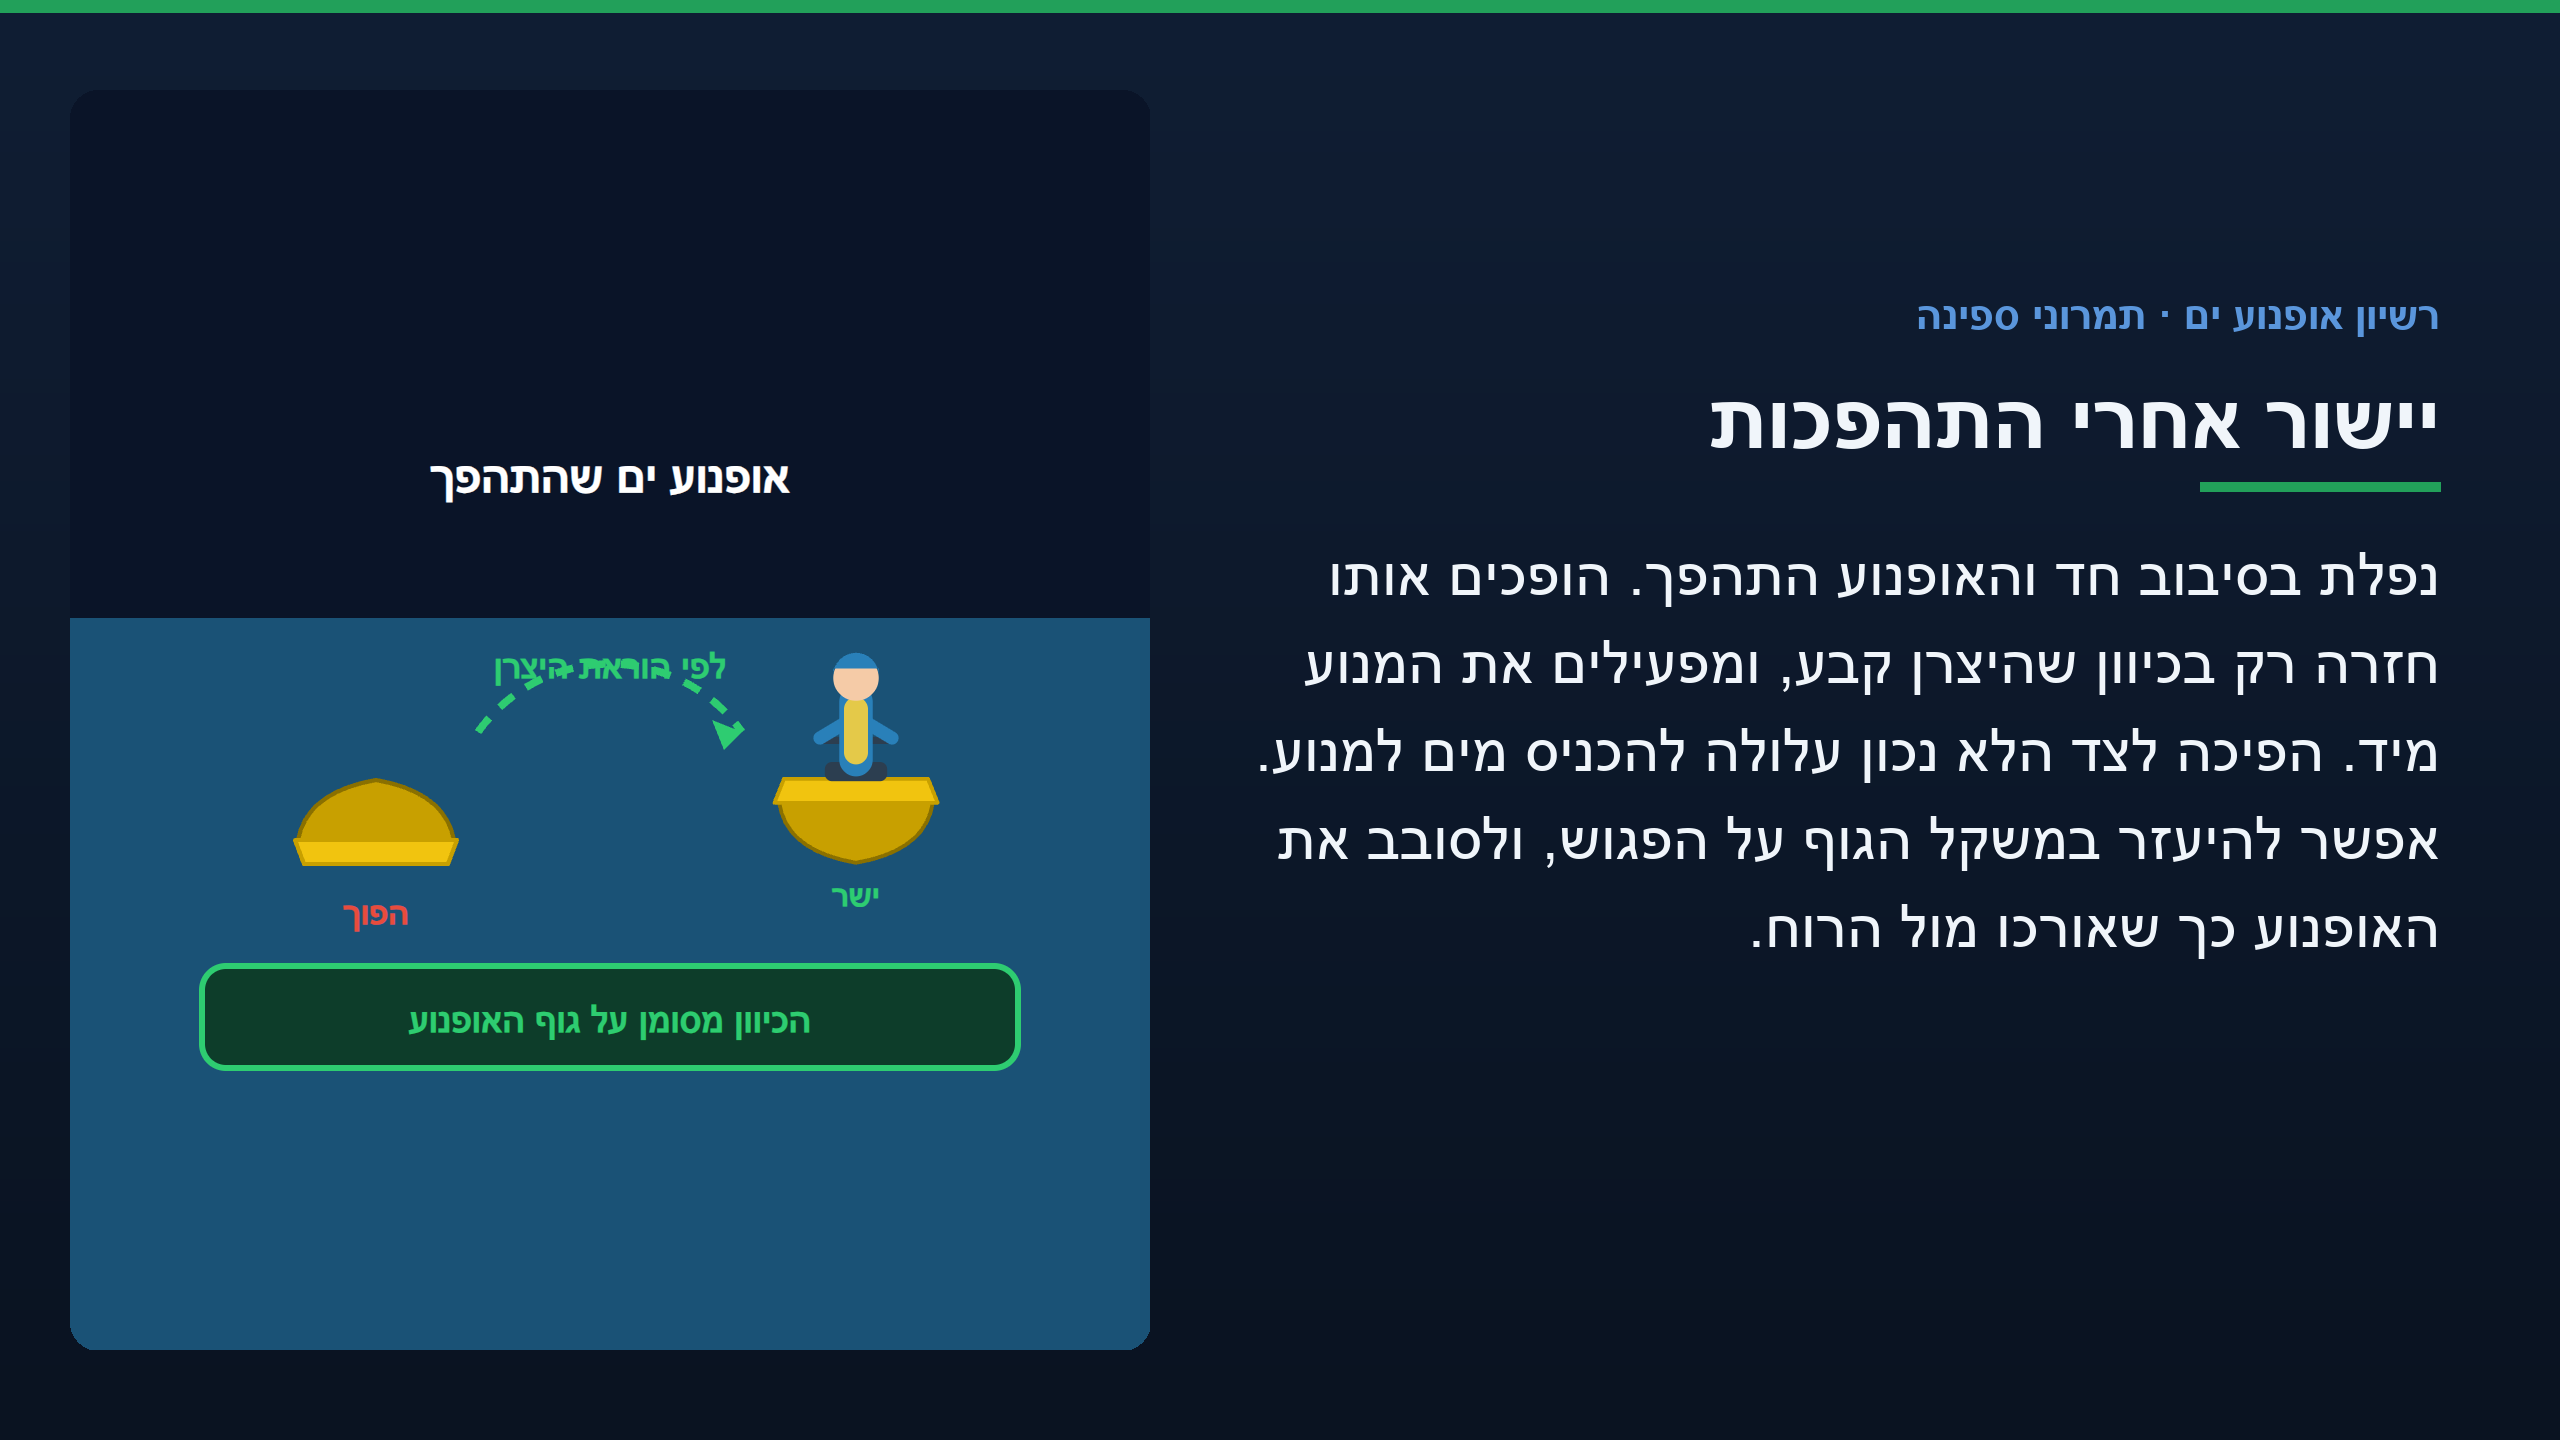
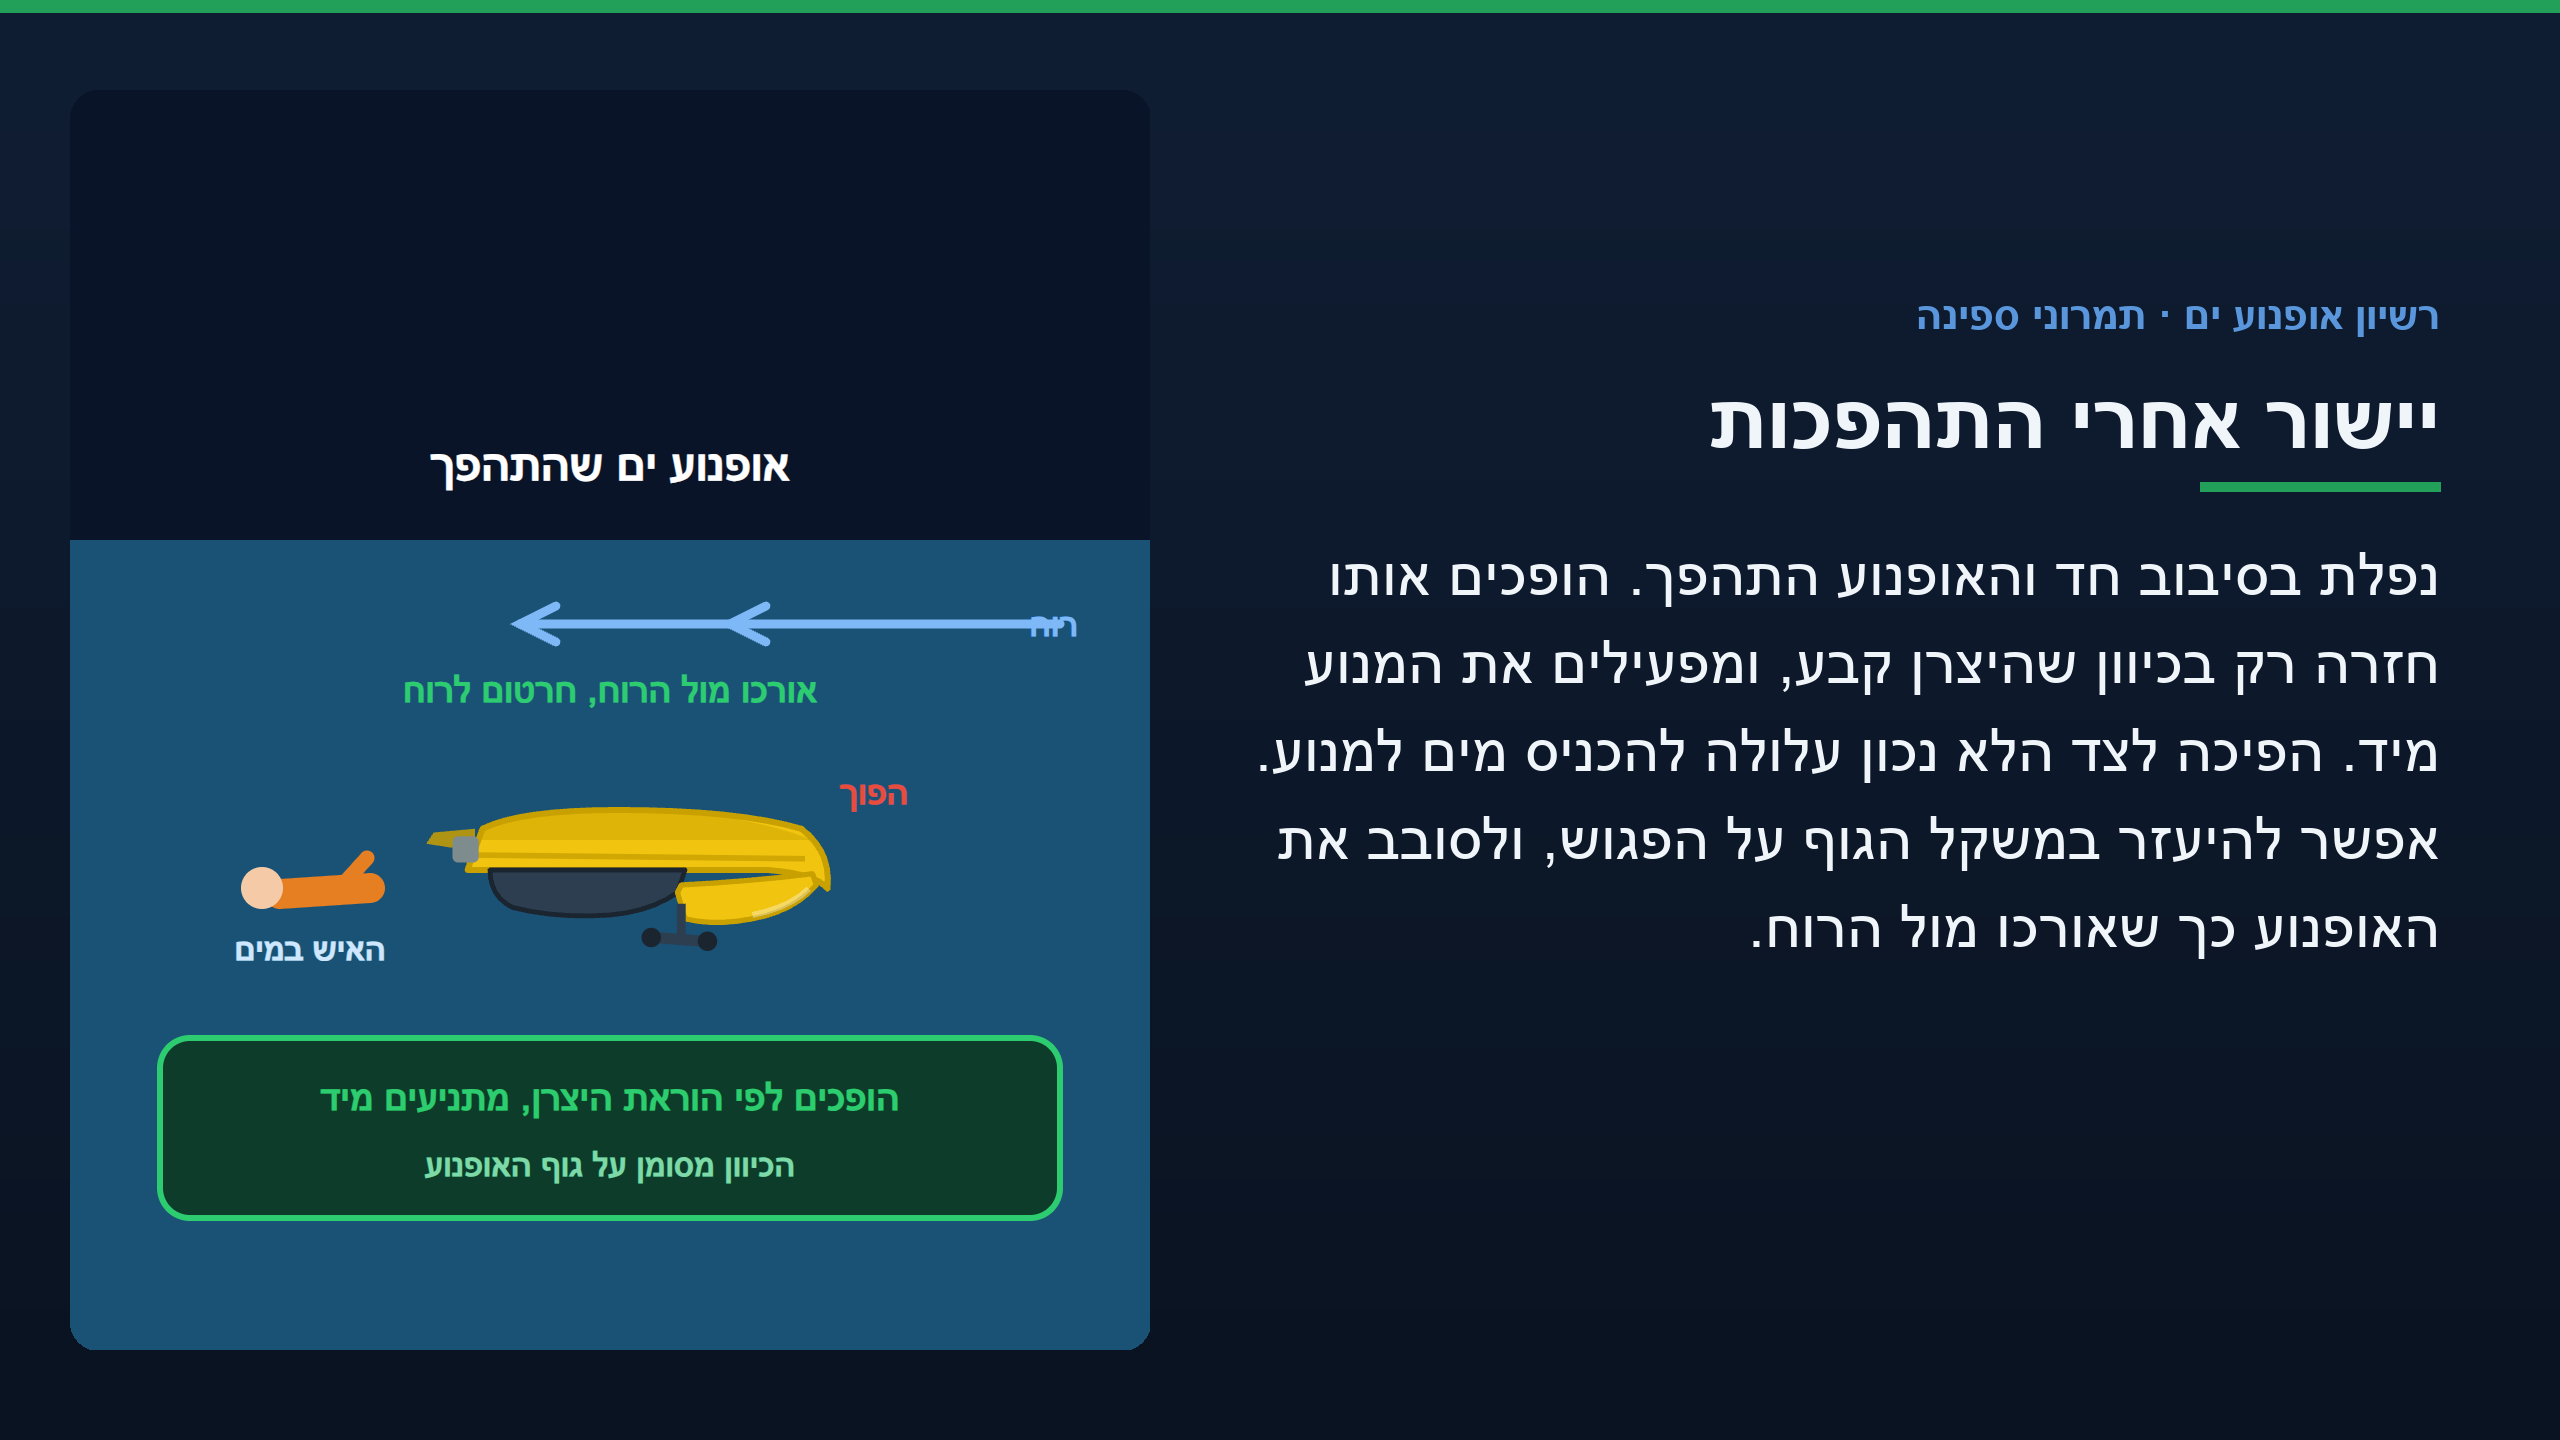
l11: revise "תמרוני ספינה" — capsize scene + Alex niqqud
- scenes.js right_capsized: מבט-צד עם sideJetSki הקיים מהופך (הפוך), חרטום לרוח + חץ רוח לאורך האופנוע, איש במים; המסר "לפי הוראת היצרן, התנע מיד" נשמר. אין איור חדש.
- מילון ניקוד (לפי אלכס): תמרוני→תִמרונֶיִ, למנוע, פגוש/הפגוש, ידחוף, צופה, חבל.
- קומפניון + כרטיס s04 מרונדרים מחדש; ניסוח "לכיוון בו היצרן המליץ".
- mp4 מעודכן ב-OneDrive לפי .gitignore.

Changed region(s): [[0.0, 0.375, 0.4688, 0.875], [0.1562, 0.3125, 0.3125, 0.3438]]

diff --git a/scenes.js b/scenes.js
@@ -2293,30 +2293,37 @@ SCENES_QA['tow_craft'] = `
 // תמרוני ספינה — יישור אופנוע שהתהפך: לכיוון שהיצרן קבע
 SCENES_QA['right_capsized'] = `
   <rect width="360" height="420" fill="#0a1428"/>
-  <rect x="0" y="176" width="360" height="244" fill="#1a5276"/>
-  <text x="180" y="134" text-anchor="middle" fill="#fff" font-size="16" font-family="Heebo,sans-serif" font-weight="900">אופנוע ים שהתהפך</text>
+  <rect x="0" y="150" width="360" height="270" fill="#1a5276"/>
+  <text x="180" y="130" text-anchor="middle" fill="#fff" font-size="16" font-family="Heebo,sans-serif" font-weight="900">אופנוע ים שהתהפך</text>
 
-  <!-- Upside down: hull only. The rider is in the water in both questions here,
-       and rotating the full sternJetSki put a head under the boat that read as
-       a blob rather than as a capsize. -->
-  <g transform="translate(102,244)">
-    <path d="M-26,6 L26,6 Q23,-10 0,-14 Q-23,-10 -26,6 Z"
-          fill="#c8a000" stroke="#8a7000" stroke-width="1.4" stroke-linejoin="round"/>
-    <path d="M-27,6 L27,6 L24,14 L-24,14 Z" fill="#f1c40f" stroke="#c8a000" stroke-width="1.4" stroke-linejoin="round"/>
+  <!-- Wind runs along the craft's length onto the bow (right). Orienting the
+       hull bow-to-wind is the manoeuvre the VO describes; the arrow shows it. -->
+  <g stroke="#7eb8f7" stroke-width="3" fill="none" stroke-linecap="round">
+    <path d="M330 178 L150 178"/>
+    <path d="M162 172 L150 178 L162 184"/>
+    <path d="M232 172 L220 178 L232 184"/>
   </g>
-  <text x="102" y="278" text-anchor="middle" fill="#e74c3c" font-size="11.5" font-family="Heebo,sans-serif" font-weight="700">הפוך</text>
+  <text x="336" y="182" text-anchor="end" fill="#7eb8f7" font-size="12" font-family="Heebo,sans-serif" font-weight="900">רוח</text>
+  <text x="180" y="204" text-anchor="middle" fill="#2ecc71" font-size="12.5" font-family="Heebo,sans-serif" font-weight="900">אורכו מול הרוח, חרטום לרוח</text>
 
-  <!-- the righting arc -->
-  <path d="M136 214 A54 54 0 0 1 224 214" fill="none" stroke="#2ecc71" stroke-width="2.5" stroke-dasharray="6 5"/>
-  <path d="M224 214 L214 210 L218 220 Z" fill="#2ecc71"/>
-  <text x="180" y="196" text-anchor="middle" fill="#2ecc71" font-size="12" font-family="Heebo,sans-serif" font-weight="900">לפי הוראת היצרן</text>
+  <!-- The craft, capsized: the existing side profile flipped about its waterline
+       (hull up, saddle down), bow still to the right facing the wind. -->
+  <g transform="translate(0,500) scale(1,-1)">
+    ${sideJetSki(190, 250, '#f1c40f', '#c8a000', 1.25)}
+  </g>
+  <text x="268" y="238" text-anchor="middle" fill="#e74c3c" font-size="12" font-family="Heebo,sans-serif" font-weight="900">הפוך</text>
 
-  <!-- upright again -->
-  ${sternJetSki(262, 244, 0.8, '#2980b9')}
-  <text x="262" y="272" text-anchor="middle" fill="#2ecc71" font-size="11" font-family="Heebo,sans-serif" font-weight="700">ישר</text>
+  <!-- Rider in the water beside the stern -->
+  <g stroke-linecap="round">
+    <path d="M70 268 L100 266" stroke="#e67e22" stroke-width="10"/>
+    <path d="M90 266 L99 256" stroke="#e67e22" stroke-width="5"/>
+    <circle cx="64" cy="266" r="7" fill="#f5cba7"/>
+  </g>
+  <text x="80" y="290" text-anchor="middle" fill="#cfe6ff" font-size="11.5" font-family="Heebo,sans-serif" font-weight="700">האיש במים</text>
 
-  <rect x="44" y="292" width="272" height="34" rx="8" fill="#0d3d2a" stroke="#2ecc71" stroke-width="2"/>
-  <text x="180" y="314" text-anchor="middle" fill="#2ecc71" font-size="12.5" font-family="Heebo,sans-serif" font-weight="900">הכיוון מסומן על גוף האופנוע</text>
+  <rect x="30" y="316" width="300" height="60" rx="10" fill="#0d3d2a" stroke="#2ecc71" stroke-width="2"/>
+  <text x="180" y="340" text-anchor="middle" fill="#2ecc71" font-size="13" font-family="Heebo,sans-serif" font-weight="900">הופכים לפי הוראת היצרן, מתניעים מיד</text>
+  <text x="180" y="362" text-anchor="middle" fill="#7fd8a8" font-size="11.5" font-family="Heebo,sans-serif" font-weight="700">הכיוון מסומן על גוף האופנוע</text>
 `;
 
 // תמרוני ספינה — החפה: למקם את האופנוע בין שני גלים כדי לשמור שליטה

diff --git a/references/niqqud-lexicon.md b/references/niqqud-lexicon.md
@@ -131,6 +131,18 @@
 | תפס | תֶּפֶס |
 | לתפס | לַתֶּפֶס |
 | השוקע | השוֹקָעַּ |
+| תמרוני | תִמרונֶיִ |
+| למנוע | לָמָנוע |
+| פגוש | פָּגֹש |
+| הפגוש | הפָּגֹש |
+| ידחוף | יֶדחֹף |
+| צופה | צוּפה |
+| חבל | חֶבֶל |
+| תמרוני | תִמרונֶיִ |
+| למנוע | לָמָנוע |
+| הפגש | הפָּגֹש |
+| ידחף | יֶדחֹף |
+| חבל | חֶבֶל |
 
 ## מקרים מיוחדים
 - **איאלה (IALA):** `אִיאָלָה`. אחריה מופיעה **אות אזור המיצוף** — `A` (ישראל) או `B`. כתוב את האות לטינית עם רווחים כדי ש-edge-tts יקריא אותה כאות: `שִׁיטַת אִיאָלָה A`.
